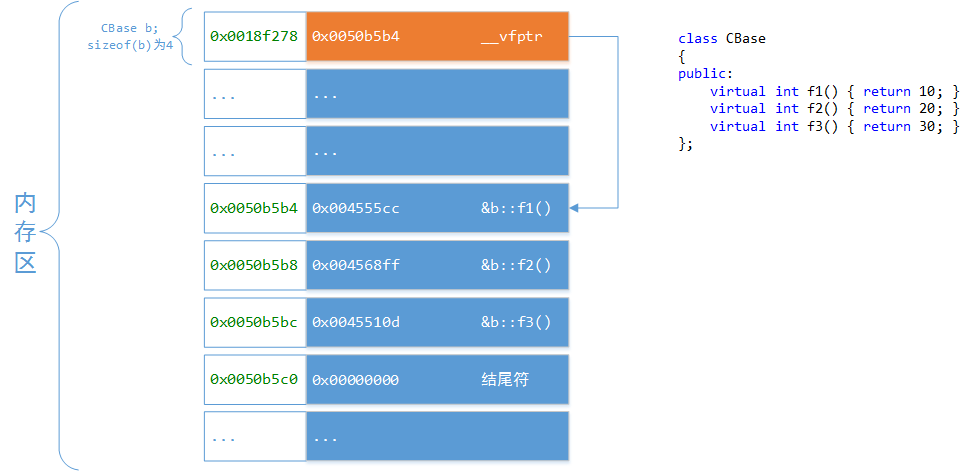
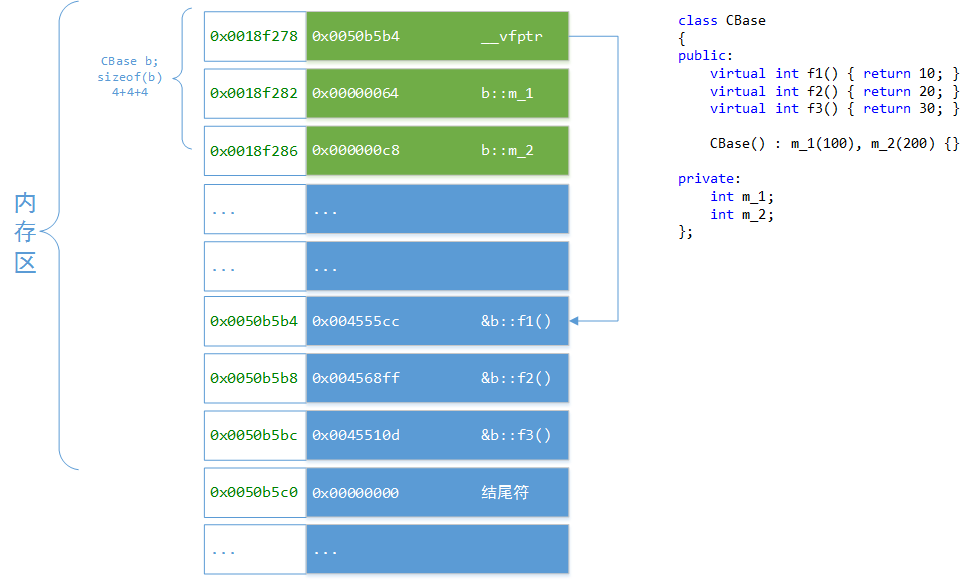
* 整理多态的代码

diff --git a/demo/polymorphism/virtual_base_class.h b/demo/polymorphism/virtual_base_class.h
@@ -6,5 +6,11 @@ public:
     virtual int f1() { return 10; }
     virtual int f2() { return 20; }
     virtual int f3() { return 30; }
+
+    CBase() : m_1(100), m_2(200) {}
+
+private:
+    int m_1;
+    int m_2;
 };
 
